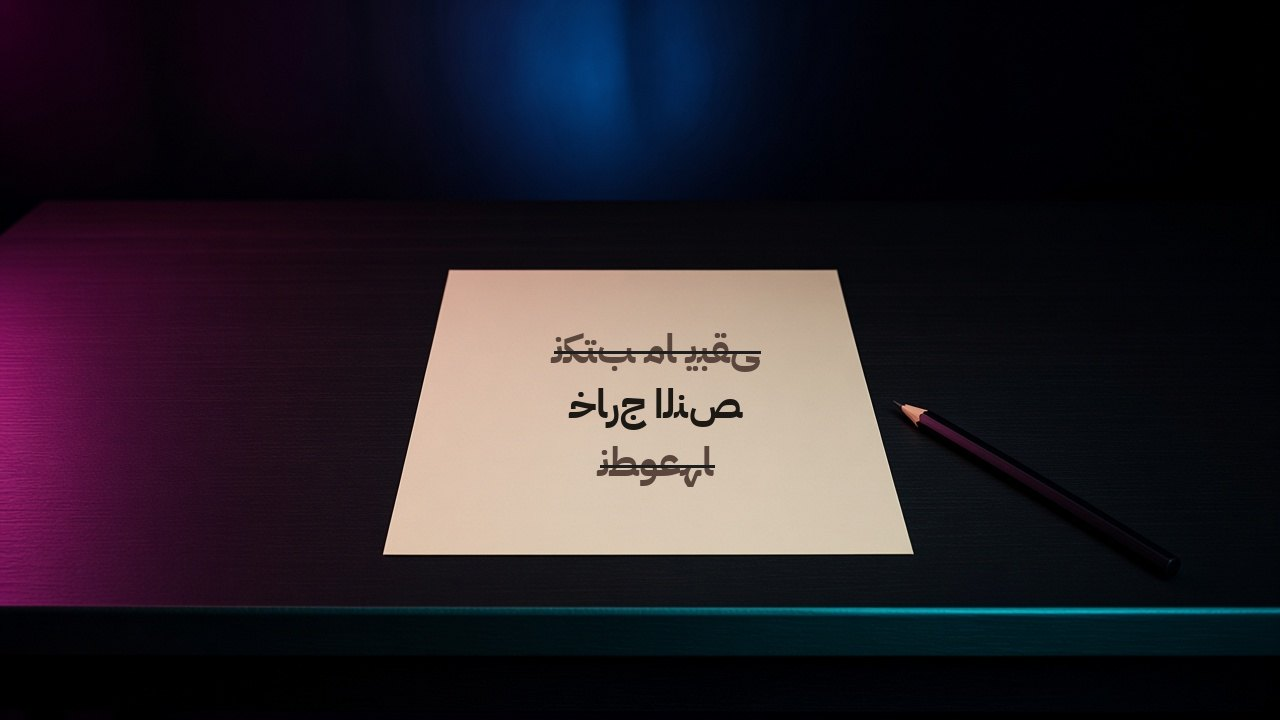
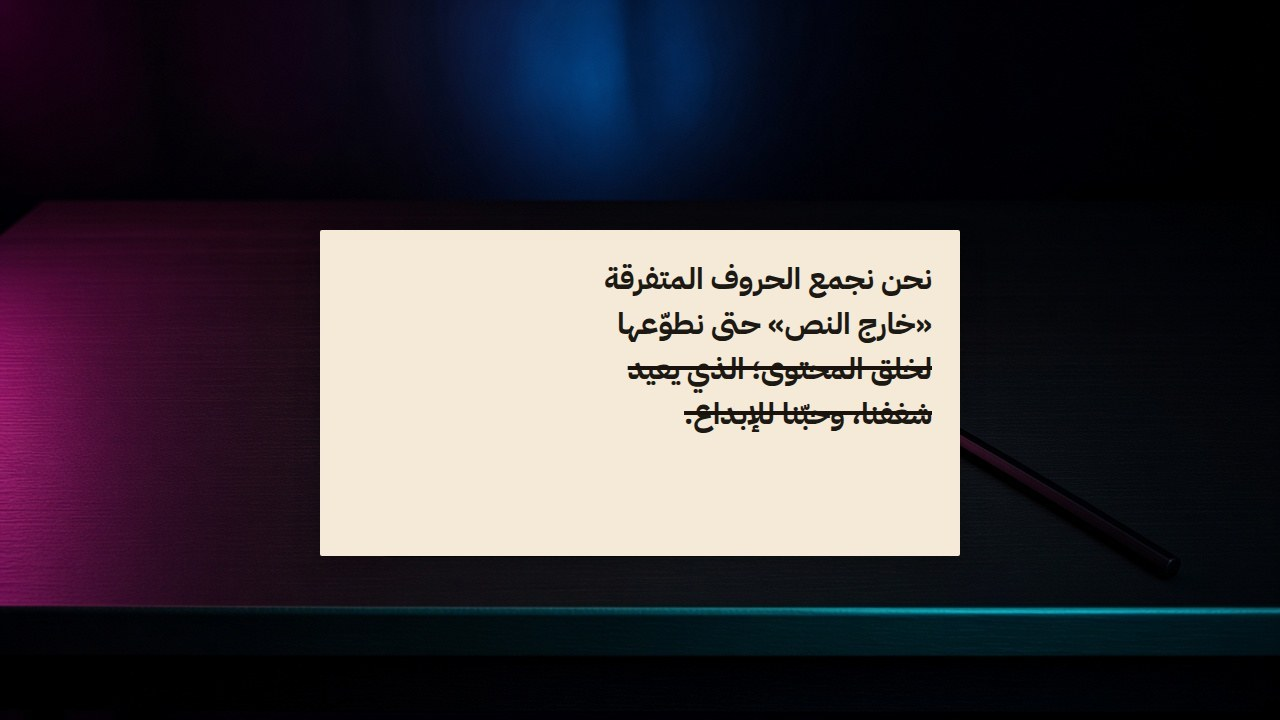
Set the short-cut sample in readable Arabic
The desk stills were lettered in the browser, right to left, so the painted words match the interface. The sequence now follows the site's own line through a draft, a strike, and a short-cut card labeled as an illustration.

Changed region(s): [[0.25, 0.3056, 0.75, 0.7944]]

diff --git a/off-the-script/index.html b/off-the-script/index.html
@@ -181,10 +181,10 @@
   <div class="wrap cut-intro">
     <p class="story-kicker">03</p>
     <p class="meta">SEQUENCE</p>
-    <h2 class="ar-only">جملة واحدة، من الورق إلى البطاقة.</h2>
-    <h2 class="en-only">One line, from paper to card.</h2>
-    <p class="lede ar-only">عينة توضيحية، ليست عمل عميل. الكلمات نفسها تنتقل: أوراق، ثم مسودة، ثم إطار، ثم صوت، ثم شطب، ثم البطاقة التي بقي عليها السطر.</p>
-    <p class="lede en-only">An illustrative sample, not a client job. The same words move: slips, then a draft, then a frame, then a mic, then a cut, then the card that keeps the line.</p>
+    <h2 class="ar-only">مقطع قصير من جملة الاستوديو.</h2>
+    <h2 class="en-only">A short cut from the studio’s own line.</h2>
+    <p class="lede ar-only">تصور توضيحي لمسار «مقاطع قصيرة»، وليس عمل عميل. الجمهور: جملة طويلة تحتاج سطراً يُقال. المصدر جملة «من نحن» في هذا الموقع. تُكتب المسودة، ثم يُشطب ما زاد، ويبقى المقطع.</p>
+    <p class="lede en-only">An illustration of the short-cut track, not a client job. The audience is a long line that needs one speakable sentence. The source is the “Who we are” line on this site. The draft is written, the surplus is struck, and the cut remains.</p>
   </div>
   <div class="seq-track wrap" id="seqTrack" data-p="0" data-seg="0" data-local="0" data-title="0">
     <div class="seq-sticky">
@@ -204,19 +204,19 @@
       </div>
       <div class="seq-caption" id="seqCaption">
         <p class="story-kicker" id="seqKicker">01 · أوراق</p>
-        <p class="lede" id="seqBody">الكلمات متفرقة على ست ورقات، ومنها «خارج النص».</p>
+        <p class="lede" id="seqBody">أجزاء الجملة على ست ورقات، قبل أن تُجمع.</p>
       </div>
     </div>
   </div>
   <div class="seq-static wrap">
-    <article><picture><source media="(max-width:960px)" srcset="media/sequence/01m.jpg"><img src="media/sequence/01.jpg" alt="" width="1280" height="720" decoding="async"></picture><div class="seq-caption"><p class="story-kicker">01 · <span class="ar-only">أوراق</span><span class="en-only">Slips</span></p><p class="lede ar-only">الكلمات متفرقة، ومنها «خارج النص».</p><p class="lede en-only">The words are apart, including “off the script”.</p></div></article>
-    <article><picture><source media="(max-width:960px)" srcset="media/sequence/02m.jpg"><img src="media/sequence/02.jpg" alt="" width="1280" height="720" decoding="async" loading="lazy"></picture><div class="seq-caption"><p class="story-kicker">02 · <span class="ar-only">مسودة</span><span class="en-only">Draft</span></p><p class="lede ar-only">نفس الكلمات في ثلاثة أسطر.</p><p class="lede en-only">The same words, in three lines.</p></div></article>
-    <article><picture><source media="(max-width:960px)" srcset="media/sequence/03m.jpg"><img src="media/sequence/03.jpg" alt="" width="1280" height="720" decoding="async" loading="lazy"></picture><div class="seq-caption"><p class="story-kicker">03 · <span class="ar-only">إطار</span><span class="en-only">Frame</span></p><p class="lede ar-only">المسودة نفسها داخل الإطار.</p><p class="lede en-only">The same draft, inside the frame.</p></div></article>
-    <article><picture><source media="(max-width:960px)" srcset="media/sequence/04m.jpg"><img src="media/sequence/04.jpg" alt="" width="1280" height="720" decoding="async" loading="lazy"></picture><div class="seq-caption"><p class="story-kicker">04 · <span class="ar-only">صوت</span><span class="en-only">Voice</span></p><p class="lede ar-only">الصفحة لم تغادر، والميكروفون جاء إليها.</p><p class="lede en-only">The page stays. The microphone comes to it.</p></div></article>
-    <article><picture><source media="(max-width:960px)" srcset="media/sequence/05m.jpg"><img src="media/sequence/05.jpg" alt="" width="1280" height="720" decoding="async" loading="lazy"></picture><div class="seq-caption"><p class="story-kicker">05 · <span class="ar-only">شطب</span><span class="en-only">Cut</span></p><p class="lede ar-only">شُطب السطران الزائدان. بقي «خارج النص».</p><p class="lede en-only">The extra lines are struck. “Off the script” stays.</p></div></article>
-    <article><picture><source media="(max-width:960px)" srcset="media/sequence/06m.jpg"><img src="media/sequence/06.jpg" alt="" width="1280" height="720" decoding="async" loading="lazy"></picture><div class="seq-caption"><p class="story-kicker">06 · <span class="ar-only">البطاقة</span><span class="en-only">The card</span></p><p class="lede ar-only">البطاقة تحمل السطر الذي بقي، وبجانبها المسودة المشطوبة.</p><p class="lede en-only">The card carries the line that stayed, beside the marked draft.</p></div></article>
-    <p class="seq-note ar-only">عينة توضيحية كُتبت على الصور في ٨ نوفمبر ٢٠٢٦. ليست تصوير عميل.</p>
-    <p class="seq-note en-only">An illustrative sample, lettered onto the stills on 8 Nov 2026. Not a client shoot.</p>
+    <article><picture><source media="(max-width:960px)" srcset="media/sequence/01m.jpg"><img src="media/sequence/01.jpg" alt="" width="1280" height="720" decoding="async"></picture><div class="seq-caption"><p class="story-kicker">01 · <span class="ar-only">أوراق</span><span class="en-only">Slips</span></p><p class="lede ar-only">أجزاء الجملة على ست ورقات، قبل أن تُجمع.</p><p class="lede en-only">The sentence in six slips, before it is gathered.</p></div></article>
+    <article><picture><source media="(max-width:960px)" srcset="media/sequence/02m.jpg"><img src="media/sequence/02.jpg" alt="" width="1280" height="720" decoding="async" loading="lazy"></picture><div class="seq-caption"><p class="story-kicker">02 · <span class="ar-only">مسودة</span><span class="en-only">Draft</span></p><p class="lede ar-only">الجملة كما هي في «من نحن»، بلا شطب.</p><p class="lede en-only">The line as it stands in “Who we are”, before any cut.</p></div></article>
+    <article><picture><source media="(max-width:960px)" srcset="media/sequence/03m.jpg"><img src="media/sequence/03.jpg" alt="" width="1280" height="720" decoding="async" loading="lazy"></picture><div class="seq-caption"><p class="story-kicker">03 · <span class="ar-only">إطار</span><span class="en-only">Frame</span></p><p class="lede ar-only">المسودة نفسها داخل الإطار. لم يُحذف شيء.</p><p class="lede en-only">The same draft, inside the frame. Nothing removed yet.</p></div></article>
+    <article><picture><source media="(max-width:960px)" srcset="media/sequence/04m.jpg"><img src="media/sequence/04.jpg" alt="" width="1280" height="720" decoding="async" loading="lazy"></picture><div class="seq-caption"><p class="story-kicker">04 · <span class="ar-only">صوت</span><span class="en-only">Voice</span></p><p class="lede ar-only">السطر الذي سيبقى، بجانب الميكروفون.</p><p class="lede en-only">The line that will stay, beside the microphone.</p></div></article>
+    <article><picture><source media="(max-width:960px)" srcset="media/sequence/05m.jpg"><img src="media/sequence/05.jpg" alt="" width="1280" height="720" decoding="async" loading="lazy"></picture><div class="seq-caption"><p class="story-kicker">05 · <span class="ar-only">شطب</span><span class="en-only">Cut</span></p><p class="lede ar-only">شُطب ما زاد عن المقطع: الذي يعيد شغفنا، وحبّنا للإبداع.</p><p class="lede en-only">What is more than the cut is struck: the clause about passion and love of making.</p></div></article>
+    <article><picture><source media="(max-width:960px)" srcset="media/sequence/06m.jpg"><img src="media/sequence/06.jpg" alt="" width="1280" height="720" decoding="async" loading="lazy"></picture><div class="seq-caption"><p class="story-kicker">06 · <span class="ar-only">المقطع</span><span class="en-only">The cut</span></p><p class="lede ar-only">المخرجات مقطع قصير: نجمع الحروف المتفرقة حتى نطوّعها لخلق المحتوى.</p><p class="lede en-only">The output is a short cut: we gather the scattered letters until we shape them into content.</p></div></article>
+    <p class="seq-note ar-only">تصور توضيحي من جملة «من نحن» في هذا الموقع، كُتب على الصور في ٨ نوفمبر ٢٠٢٦. ليس تصوير عميل ولا نتيجة منشورة.</p>
+    <p class="seq-note en-only">An illustration taken from the “Who we are” line on this site, lettered onto the stills on 8 Nov 2026. Not a client shoot and not a published result.</p>
   </div>
 </section>
 

diff --git a/off-the-script/story-scroll.js b/off-the-script/story-scroll.js
@@ -11,20 +11,20 @@
   const engine = typeof window.anime === 'function' ? window.anime : null;
   const copy = {
     ar: [
-      ['01 · أوراق', 'الكلمات متفرقة على ست ورقات، ومنها «خارج النص».'],
-      ['02 · مسودة', 'نفس الكلمات في ثلاثة أسطر.'],
-      ['03 · إطار', 'المسودة نفسها داخل الإطار.'],
-      ['04 · صوت', 'الصفحة لم تغادر، والميكروفون جاء إليها.'],
-      ['05 · شطب', 'شُطب السطران الزائدان. بقي «خارج النص».'],
-      ['06 · البطاقة', 'البطاقة تحمل السطر الذي بقي، وبجانبها المسودة المشطوبة.']
+      ['01 · أوراق', 'أجزاء الجملة على ست ورقات، قبل أن تُجمع.'],
+      ['02 · مسودة', 'الجملة كما هي في «من نحن»، بلا شطب.'],
+      ['03 · إطار', 'المسودة نفسها داخل الإطار. لم يُحذف شيء.'],
+      ['04 · صوت', 'السطر الذي سيبقى، بجانب الميكروفون.'],
+      ['05 · شطب', 'شُطب ما زاد عن المقطع: الذي يعيد شغفنا، وحبّنا للإبداع.'],
+      ['06 · المقطع', 'المخرجات مقطع قصير: نجمع الحروف المتفرقة حتى نطوّعها لخلق المحتوى.']
     ],
     en: [
-      ['01 · Slips', 'The words are apart, including “off the script”.'],
-      ['02 · Draft', 'The same words, in three lines.'],
-      ['03 · Frame', 'The same draft, inside the frame.'],
-      ['04 · Voice', 'The page stays. The microphone comes to it.'],
-      ['05 · Cut', 'The extra lines are struck. “Off the script” stays.'],
-      ['06 · The card', 'The card carries the line that stayed, beside the marked draft.']
+      ['01 · Slips', 'The sentence in six slips, before it is gathered.'],
+      ['02 · Draft', 'The line as it stands in “Who we are”, before any cut.'],
+      ['03 · Frame', 'The same draft, inside the frame. Nothing removed yet.'],
+      ['04 · Voice', 'The line that will stay, beside the microphone.'],
+      ['05 · Cut', 'What is more than the cut is struck: the clause about passion and love of making.'],
+      ['06 · The cut', 'The output is a short cut: we gather the scattered letters until we shape them into content.']
     ]
   };
 

diff --git a/off-the-script/story.css b/off-the-script/story.css
@@ -44,7 +44,11 @@ html.story-motion .seq-static{display:none}
 @media (min-width:961px){
   .seq-track{height:calc(100svh + 280vh)}
   .seq-sticky{grid-template-columns:minmax(0,1.45fr) minmax(240px,.62fr);gap:28px;align-items:center}
-  .seq-stage{height:calc(100svh - 108px);min-height:420px}
+  .seq-stage{height:auto;aspect-ratio:16/9;min-height:0}
+  .seq-shot{object-position:center center}
+  .band--work .story-beat:nth-of-type(2){grid-template-columns:minmax(0,.85fr) 1.25fr}
+  .band--work .story-beat:nth-of-type(2) .beat-still{order:2}
+  .band--work .story-beat:nth-of-type(3) .beat-still{aspect-ratio:21/9}
   .seq-static article{grid-template-columns:minmax(0,1.3fr) minmax(220px,.7fr);align-items:center}
 }
 

diff --git a/off-the-script/DECISIONS.md b/off-the-script/DECISIONS.md
@@ -172,3 +172,19 @@ The sequence is now six stills of one sample. The words نكتب / ما / يبق
 
 Chrome check after that change: zero console errors, overflow 0, one displayed frame, phone files on 360/390/430 and desk files at 1440, caption below the header, at 0 and 0.5 of each step and at the end. Tours are 62.0 seconds, 496 frames at 8 fps. Desktop ends at scroll 7926/7926. Mobile ends at 8799/8799. Both show the footer. Zero video elements in those passes. This is still an illustration, not a client piece, and not a ready claim.
 
+## 2026-11-08 run 10 — the letters have to face the reader
+
+The run 9 retest found the Arabic painted on the stills reversed. Interface Arabic was fine. The bake had used python-bidi, which put the glyphs in the wrong visual order. That bake is gone. The lines were set in headless Chrome with `dir=rtl` and IBM Plex Sans Arabic, then placed on the blank desk photos. The scene is not flipped.
+
+The piece is one illustration of the existing short-cut track («مقاطع قصيرة»). The source is the “who we are” sentence already on this site. Audience: a long line that needs one speakable sentence. The draft is that sentence. The strike removes «الذي يعيد شغفنا، وحبّنا للإبداع». The card keeps «نجمع الحروف المتفرقة حتى نطوّعها لخلق المحتوى» and is labeled «مقطع قصير · تصور توضيحي». It is not a client job, not a published result, and not the logo.
+
+Words read from the stage at display size, not from the source string: the six slips نحن / نجمع الحروف / المتفرقة / حتى نطوّعها / لخلق المحتوى / الذي يعيد شغفنا; the draft نحن نجمع الحروف المتفرقة / «خارج النص» حتى نطوّعها / لخلق المحتوى؛ الذي يعيد / شغفنا، وحبّنا للإبداع; the same four lines inside the frame; the kept two lines beside the microphone; the last two lines struck; the card label, the kept sentence, and the struck clause.
+
+The desktop stage is 16:9 so the still is not side-cropped. The phone stage stays 3:4. Phone frames are their own layouts so each line stays whole, and the black front of the desk is cropped off. A teal lip remains. The second work row swaps image and text, and the third work image is wider. No new stock and no coffee.
+
+Hero files were not edited. After `is-ready`, the CTA computed to rgb(107, 47, 140), which is #6B2F8C. The settled frame shows the light wordmark, the blue nav contact, and the magenta / blue / teal spectrum. It was compared with `logo-desktop-1440-ar.png`.
+
+Chrome on this tree: zero console errors, overflow 0 at 1440, 360, 390, and 430, one displayed frame, Anime.js 3.2.1 setting opacity, zero video elements. Reduced motion adds `story-static`, hides the track, and shows the six stills. Language toggle goes ar/rtl to en/ltr and back. An empty form shows the required-field status and does not send mail. Desktop tour: 1759 frames at 25 fps, ends at scroll 7824/7824 with the footer in a 900px viewport. Phone tour: 1453 frames at 25 fps, ends at scroll 8788/8788 with the footer in an 844px viewport. Those are browse recordings. Smoothness is not claimed from them.
+
+No public URL. The live site was not published. This is not an acceptance.
+

diff --git a/off-the-script/LICENSES.md b/off-the-script/LICENSES.md
@@ -6,7 +6,7 @@
 | `assets/logo.jpg`, `mark.png`, `mark-bubble.png` | Owner brand | Owner |
 | `assets/logo-hero-ondark.png` | Derived from `logo-transparent.png`. Emblem pixels unchanged. Near-black letterforms recolored to `#F3F5FA` for dark grounds. Originals kept. | Owner |
 | Media stills | `media/stills/` and `media/posters/`. Owner / build. The nebula poster is the ground of the illustrative sequence. Studio stills beside the named programs are labeled as studio references, not frames from those programs. Not a third-party sequence pack. | Owner / build |
-| Desk sequence | `media/sequence/01.jpg`–`06.jpg` and `01m.jpg`–`06m.jpg`. Original stills, 2026-11-08, one desk. Arabic lines were set with IBM Plex Sans Arabic (OFL) onto those stills: the same words move from slips to a draft, into a frame, beside a microphone, through a strike-through, onto the finished card. Phone files are reframes of the same stills so the paper and pencil stay inside the frame. Not a client shoot and not a third-party pack. | Original, this project |
+| Desk sequence | `media/sequence/01.jpg`–`06.jpg` and `01m.jpg`–`06m.jpg`. Original stills, 2026-11-08, one desk. Arabic was set in the browser with IBM Plex Sans Arabic (OFL), right to left, then placed on the stills. The piece is an illustration of the existing short-cut track: the site’s own “who we are” sentence, then a strike through the surplus clause, then the kept line on a card labeled as an illustration. Phone files are separate portrait layouts of the same stills so each line stays whole. Not a client shoot and not a published result. | Original, this project |
 | Anime.js | Package tag 3.2.2 at https://cdn.jsdelivr.net/npm/animejs@3.2.2/lib/anime.min.js (jsDelivr header `x-jsd-version: 3.2.2`, package.json version 3.2.2). The file’s own `anime.version` string is `3.2.1`. MIT, Copyright (c) 2019 Julian Garnier. https://github.com/juliangarnier/anime | MIT |
 
 Not used, and not downloaded: 3dicons Bulb (CC0 item page, not a sequence), Megaphone (license pending), Lummi (license unverified), Oversight Cyanotype (account-gated), SceneAI (premium reference only).
